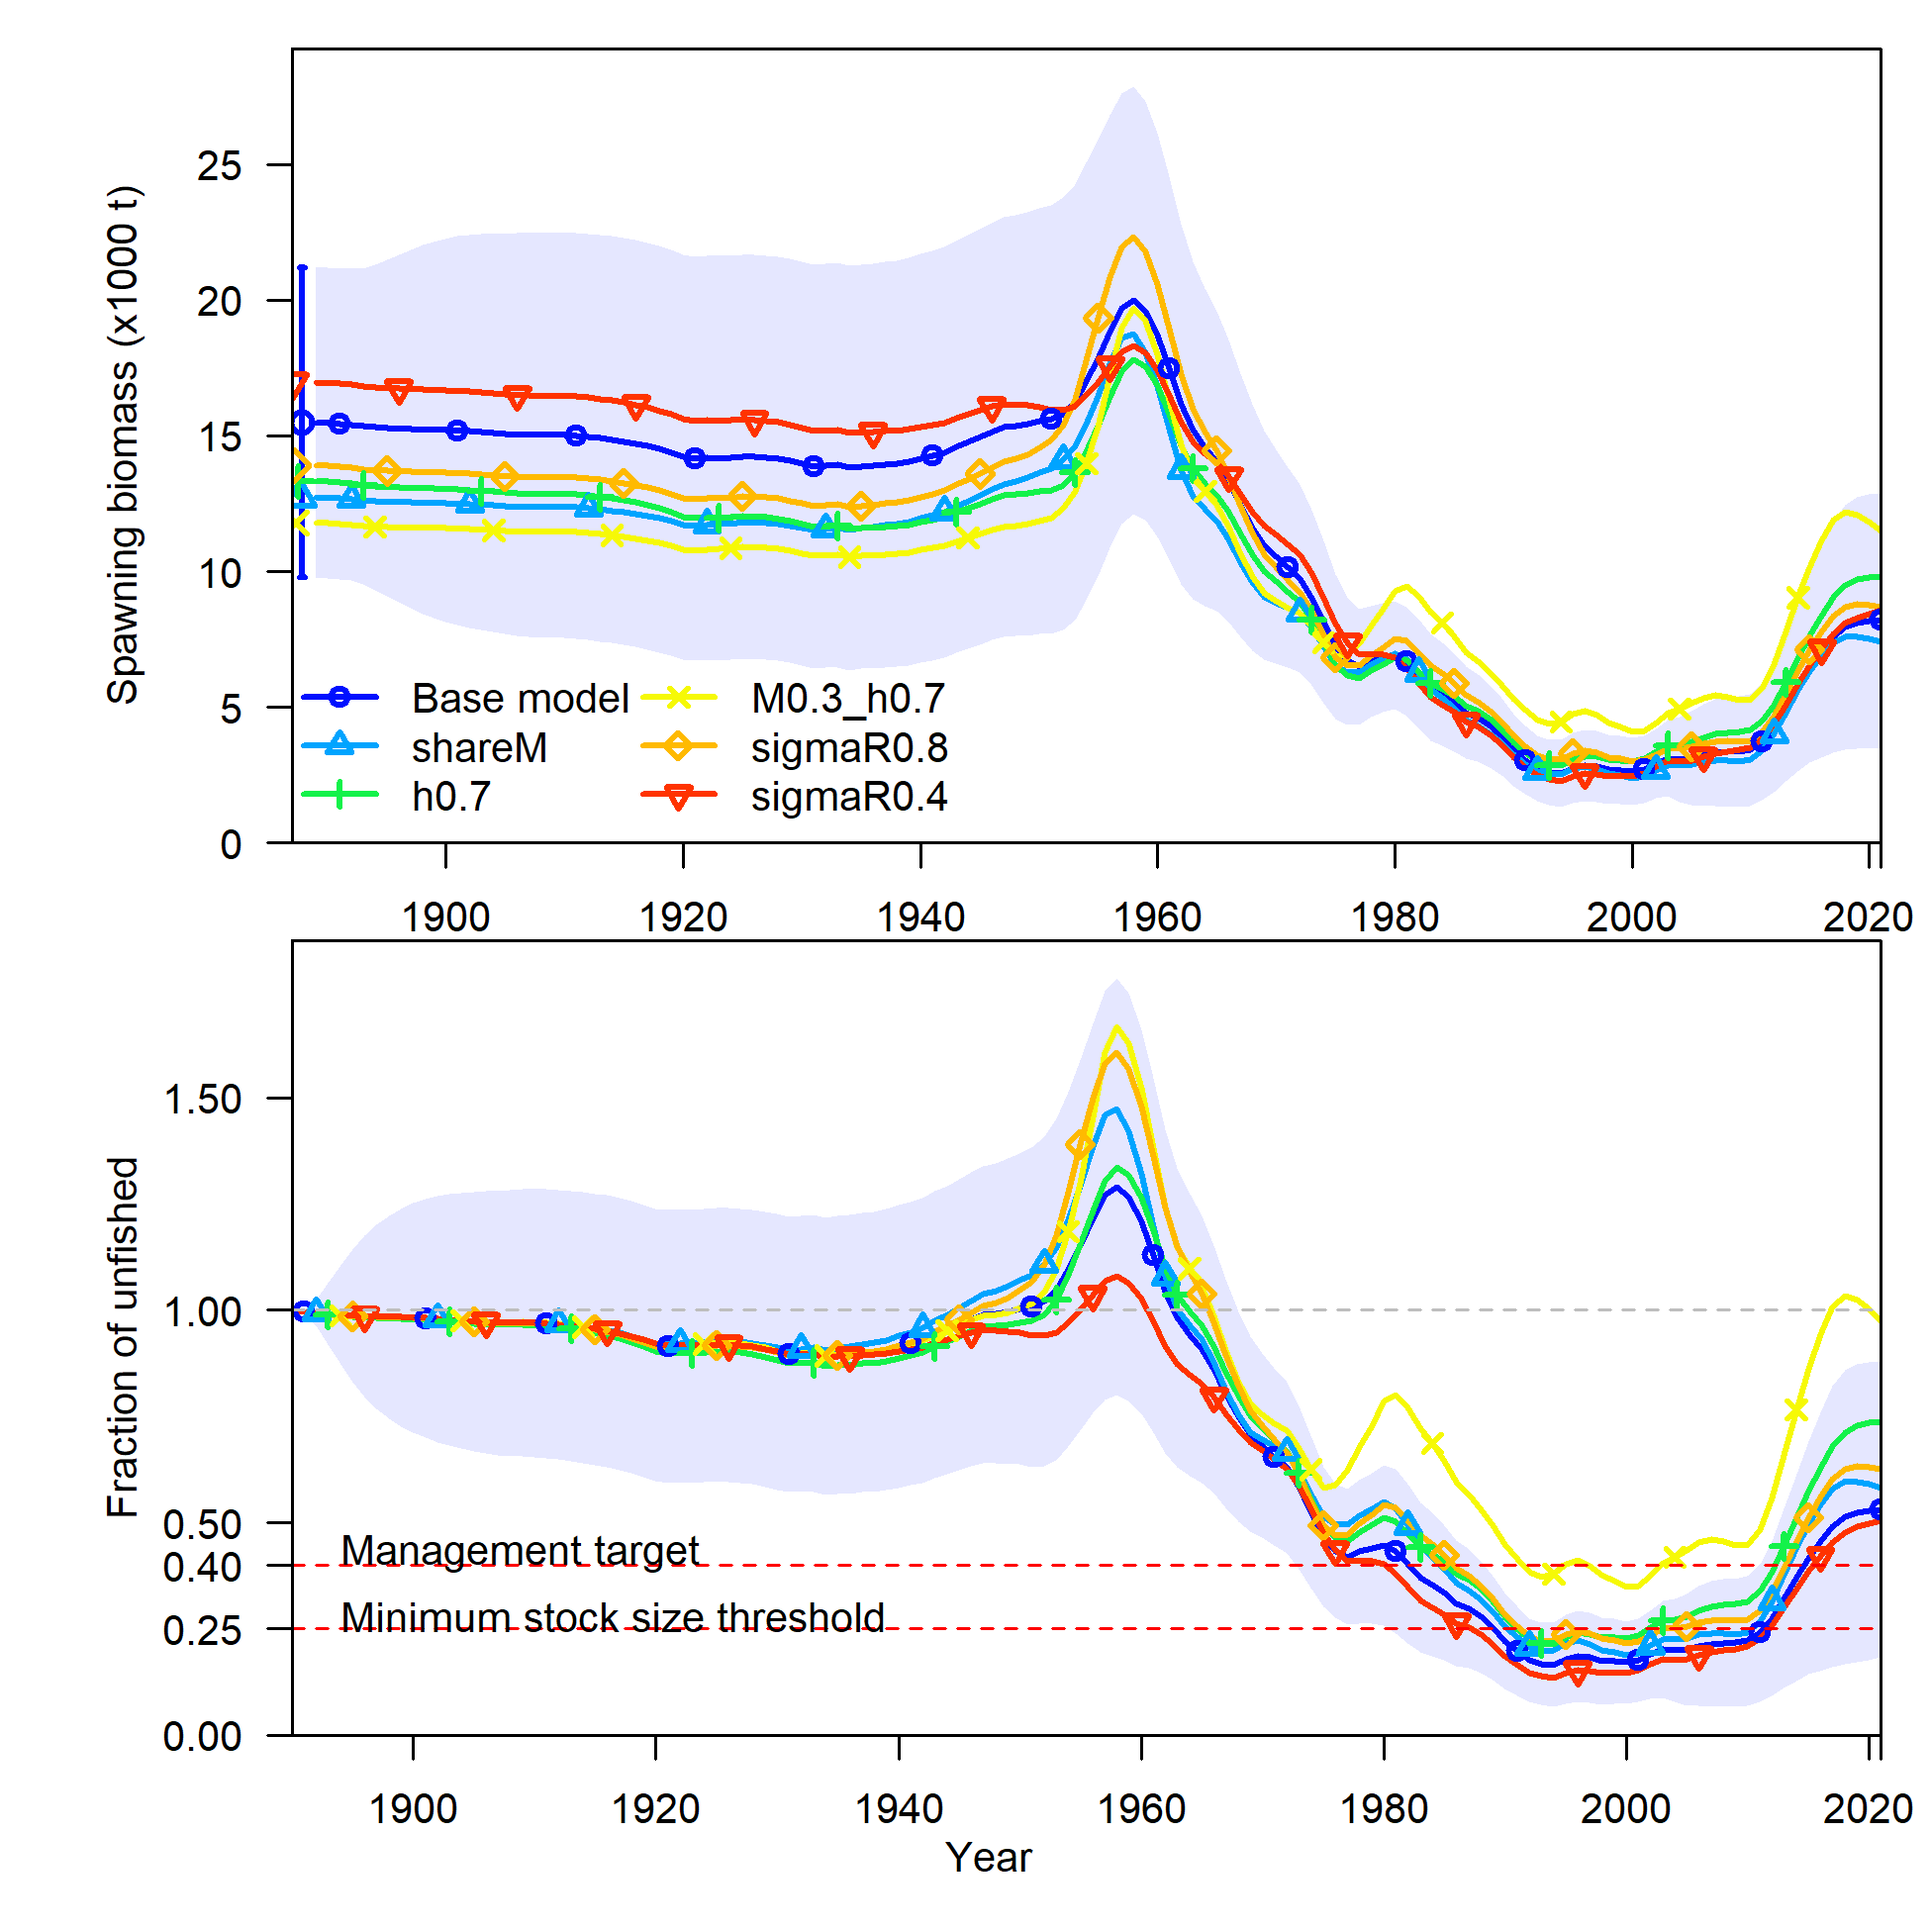
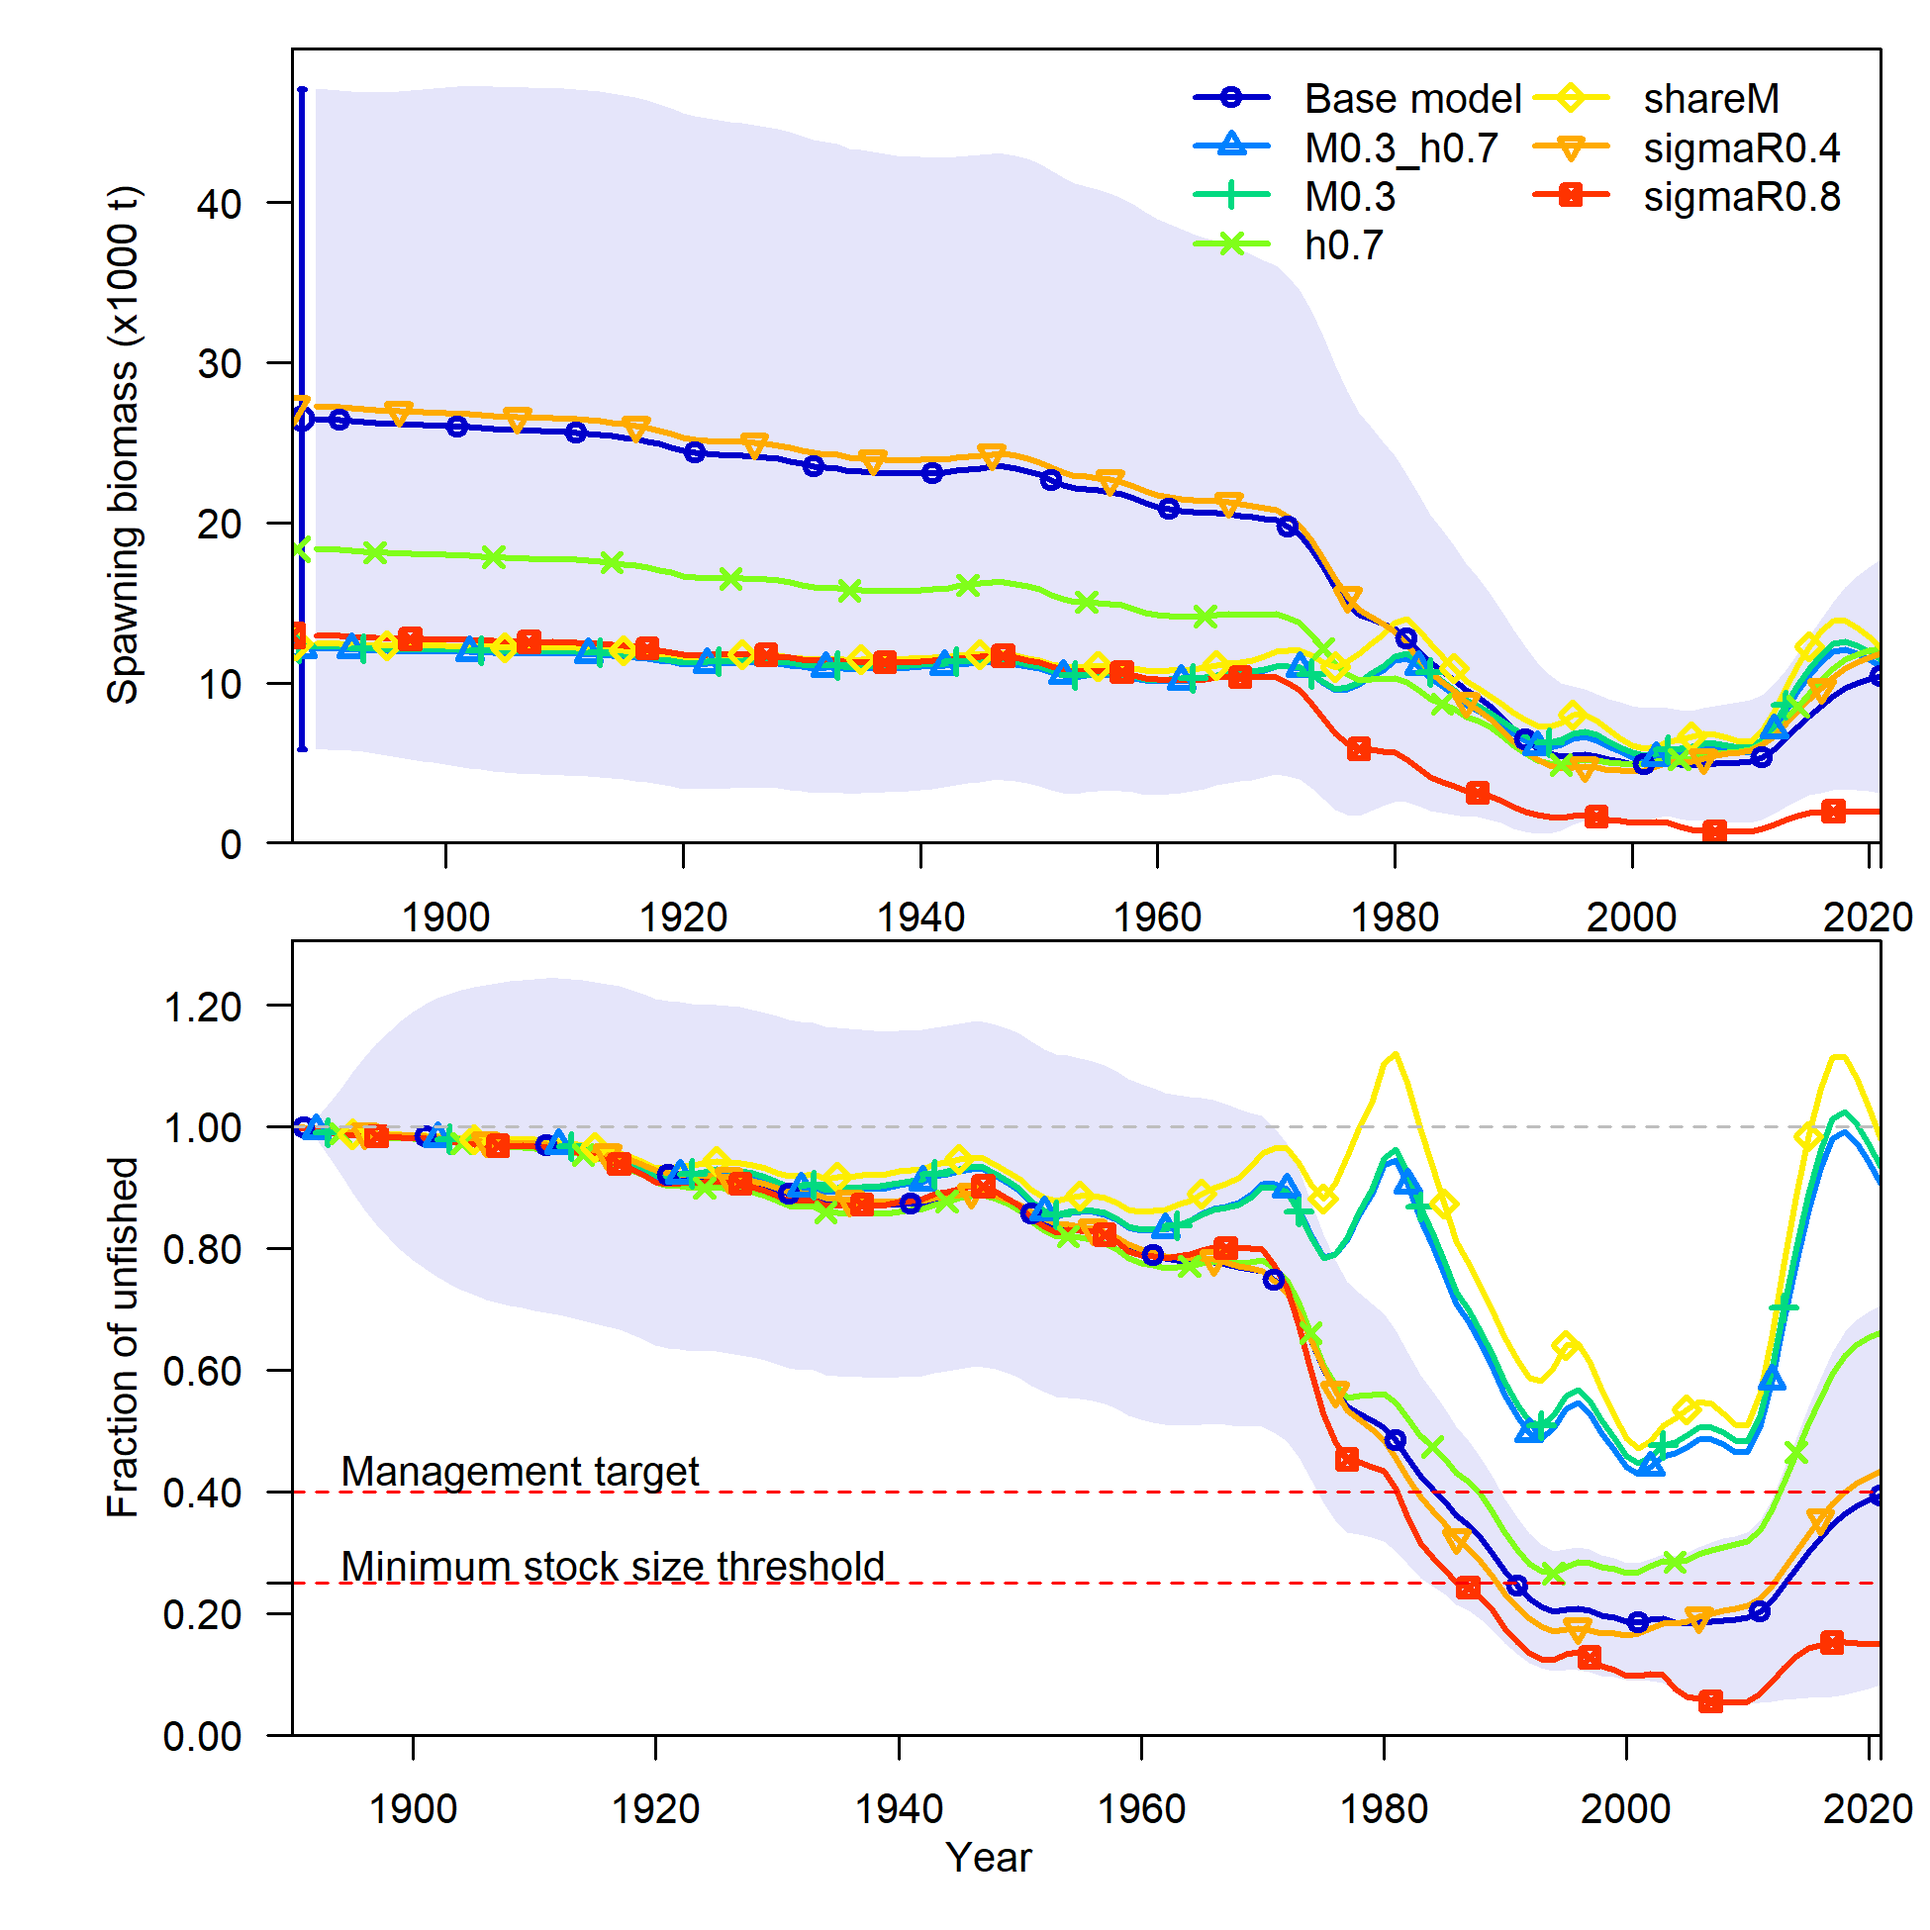
update some sensitivities for the south model

diff --git a/models/README.md b/models/README.md
@@ -242,7 +242,6 @@ name | notes | issue | source_model | script
 2021.n.023.801_lorenzenm | Lorenzen M Age 8 | #150 | 2021.n.023.001_fixWAreccatchhistory | model_STAR_request_10.R
 2021.s.017.801_lorenzenm | Lorenzen M Age 8 | #150 | 2021.s.017.001_triextrasdreweight | model_STAR_request_10.R
 2021.s.017.802_lorenzenm | Lorenzen M Age 8 free up Tri selectivity | #150 | 2021.s.017.801_lorenzenm | manual
-2021.s.017.412_female_sel_offset_fisheriesFixTriSlx | Tri Slx Offset | #150 | 2021.s.017.411_female_sel_offset_fisheries | manual
 2021.s.017.803_lorenzenm | Lorenzen M Free Tri Slx Offset | #150 | 2021.s.017.412_female_sel_offset_fisheriesFixTriSlx | model_STAR_request_10.R
 2021.n.023.802_offsetLM | female offset sensitivity | #150 #151 | 2021.n.023.411_female_sel_offset_fisheries | run_sensitivities(), model_STAR_requests.R
 2021.n.023.901_trawl_discard_rates             | actually a combinationof 902 and 904  | #155 | 2021.n.023.001_fixWAreccatchhistory | lingcod_model_STAR_R14_discard.R
@@ -250,6 +249,7 @@ name | notes | issue | source_model | script
 2021.n.023.903_trawl_rates_discard_se          | less reduced se of discard rates for fleet2 than sens 901     | #155 | 2021.n.023.001_fixWAreccatchhistory | lingcod_model_STAR_R14_discard.R
 2021.n.023.904_sample_size                     | downweight sample sizes of discard lengths for fleet1         | #155 | 2021.n.023.001_fixWAreccatchhistory | lingcod_model_STAR_R14_discard.R
 2021.s.017.810_cutnuseDM | Tune comps with smaller input | intuition | 2021.s.017.001_triextrasdreweight | lingcod_model_STAR_R9_reweight.R
+2021.s.017.412_female_sel_offset_fisheriesFixTriSlx | Tri Slx Offset | #150 | 2021.s.017.411_female_sel_offset_fisheries | manual
 2021.n.023.413_asymptotic_TW | fix the commercial trawl selectivity to be asymptotic for all blocks | #156 | 2021.n.023.001 | run_sensitivities(), model_STAR_requests.R
 2021.s.017.413_asymptotic_TW | fix the commercial trawl selectivity to be asymptotic for all blocks | #156 | 2021.s.017.001 | run_sensitivities(), model_STAR_requests.R
 2021.n.023.414_descend_shared_across_blocks | make the descending slope of the selectivity function equal for all blocks | #156 | 2021.n.023.001 | run_sensitivities(), model_STAR_requests.R
@@ -268,7 +268,6 @@ name | notes | issue | source_model | script
 2021.n.023.421_sex_sel_peak_descend_fisheries | make the peak and descending slope of the selectivity function sex-specific for fisheries only | #156 | 2021.n.023.001 | run_sensitivities(), model_STAR_requests.R
 2021.s.017.421_sex_sel_peak_descend_fisheries | make the peak and descending slope of the selectivity function sex-specific for fisheries only | #156 | 2021.s.017.001 | run_sensitivities(), model_STAR_requests.R 
 2021.s.017.422_init_values | test south model sensitivity to initial values | #156 | 2021.s.017.419 | model_STAR_requests.R 
-2021.s.017.412_female_sel_offset_fisheriesFixTriSlx | Tri Slx Offset | #150 | 2021.s.017.411_female_sel_offset_fisheries | manual
 2021.s.017.803_lorenzenm | Lorenzen M Free Tri Slx Offset | #150 | 2021.s.017.412_female_sel_offset_fisheriesFixTriSlx | manual
 2021.n.023.002_tighterM | divide sd of M in half |  | 2021.n.023.001_fixWAreccatchhistory | 
 2021.n.913_discard_trawl_rates_se_tighterM | divide sd of M in half |  | 2021.n.023.903_trawl_rates_discard_se | 
@@ -311,5 +310,48 @@ name | notes | issue | source_model | script
 2021.s.018.613_low_stream_3	 | forecasts on July 21 | #154 | 2021.s.018.010 | lingcod_forecast.R, model_decsion_tables.R
 2021.s.018.623_base_stream_3 | forecasts on July 21 | #154 | 2021.s.018.010 | lingcod_forecast.R, model_decsion_tables.R
 2021.s.018.633_high_stream_3 | forecasts on July 21 | #154 | 2021.s.018.010 | lingcod_forecast.R, model_decsion_tables.R
-2021.n.023.103_M0.3_h0.7 | | | |
-2021.s.018.103_M0.3_h0.7 | | | |
+2021.n.023.629_forecast_no4010 | like 623_base_stream_3 forecast but without 40:10 adjustment |  | 2021.n.023.623 | lingcod_forecast_extras.R
+2021.s.018.629_forecast_no4010 | like 623_base_stream_3 forecast but without 40:10 adjustment |  | 2021.s.018.623 | lingcod_forecast_extras.R
+2021.s.018.101_shareM                 | post-STAR south sensitivities | #175 | 2021.s.018.001 | model_sensitivity_output.R, run_sensitivities()  
+2021.s.018.102_h0.7					  | post-STAR south sensitivities | #175 | 2021.s.018.001 | model_sensitivity_output.R, run_sensitivities()
+2021.s.018.103_M0.3_h0.7			  | post-STAR south sensitivities | #175 | 2021.s.018.001 | model_sensitivity_output.R, run_sensitivities()
+2021.s.018.104_sigmaR0.8			  | post-STAR south sensitivities | #175 | 2021.s.018.001 | model_sensitivity_output.R, run_sensitivities()
+2021.s.018.105_sigmaR0.4			  | post-STAR south sensitivities | #175 | 2021.s.018.001 | model_sensitivity_output.R, run_sensitivities()
+2021.s.018.106_M0.3       			  | post-STAR south sensitivities | #175 | 2021.s.018.001 | model_sensitivity_output.R, run_sensitivities()
+2021.s.018.201_all_CAAL_ages		  | post-STAR south sensitivities | #175 | 2021.s.018.001 | model_sensitivity_output.R, run_sensitivities()
+2021.s.018.202_all_marg_ages		  | post-STAR south sensitivities | #175 | 2021.s.018.001 | model_sensitivity_output.R, run_sensitivities()
+2021.s.018.203_some_CAAL_ages		  | post-STAR south sensitivities | #175 | 2021.s.018.001 | model_sensitivity_output.R, run_sensitivities()
+2021.s.018.206_combMF				  | post-STAR south sensitivities | #175 | 2021.s.018.001 | model_sensitivity_output.R, run_sensitivities()
+2021.s.018.207_no_unsexed			  | post-STAR south sensitivities | #175 | 2021.s.018.001 | model_sensitivity_output.R, run_sensitivities()
+2021.s.018.208_DM					  | post-STAR south sensitivities | #175 | 2021.s.018.001 | model_sensitivity_output.R, run_sensitivities()
+2021.s.018.301_CA_CRFSPR_index		  | post-STAR south sensitivities | #175 | 2021.s.018.001 | model_sensitivity_output.R, run_sensitivities()
+2021.s.018.303_no_fishery_indices	  | post-STAR south sensitivities | #175 | 2021.s.018.001 | model_sensitivity_output.R, run_sensitivities()
+2021.s.018.311_no_Comm_Trawl_index	  | post-STAR south sensitivities | #175 | 2021.s.018.001 | model_sensitivity_output.R, run_sensitivities()
+2021.s.018.315_no_Rec_CA_index		  | post-STAR south sensitivities | #175 | 2021.s.018.001 | model_sensitivity_output.R, run_sensitivities()
+2021.s.018.316_no_Surv_TRI_index	  | post-STAR south sensitivities | #175 | 2021.s.018.001 | model_sensitivity_output.R, run_sensitivities()
+2021.s.018.317_no_Surv_WCGBTS_index	  | post-STAR south sensitivities | #175 | 2021.s.018.001 | model_sensitivity_output.R, run_sensitivities()
+2021.s.018.318_no_Surv_HookLine_index | post-STAR south sensitivities | #175 | 2021.s.018.001 | model_sensitivity_output.R, run_sensitivities()
+2021.s.018.320_no_CPFV_DebWV_index	  | post-STAR south sensitivities | #175 | 2021.s.018.001 | model_sensitivity_output.R, run_sensitivities()
+2021.s.018.321_no_fishery_indices_v2  | post-STAR south sensitivities | #175 | 2021.s.018.001 | model_sensitivity_output.R, run_sensitivities()
+2021.n.023.101_shareM                          | post-STAR north sensitivities | #175 | 2021.n.023.001 | model_sensitivity_output.R, run_sensitivities()   
+2021.n.023.102_h0.7							   | post-STAR north sensitivities | #175 | 2021.n.023.001 | model_sensitivity_output.R, run_sensitivities()
+2021.n.023.103_M0.3_h0.7					   | post-STAR north sensitivities | #175 | 2021.n.023.001 | model_sensitivity_output.R, run_sensitivities()
+2021.n.023.104_sigmaR0.8					   | post-STAR north sensitivities | #175 | 2021.n.023.001 | model_sensitivity_output.R, run_sensitivities()
+2021.n.023.105_sigmaR0.4					   | post-STAR north sensitivities | #175 | 2021.n.023.001 | model_sensitivity_output.R, run_sensitivities()
+2021.n.023.106_M0.3							   | post-STAR north sensitivities | #175 | 2021.n.023.001 | model_sensitivity_output.R, run_sensitivities()
+2021.n.023.206_combMF						   | post-STAR north sensitivities | #175 | 2021.n.023.001 | model_sensitivity_output.R, run_sensitivities()
+2021.n.023.207_no_unsexed					   | post-STAR north sensitivities | #175 | 2021.n.023.001 | model_sensitivity_output.R, run_sensitivities()
+2021.n.023.208_DM							   | post-STAR north sensitivities | #175 | 2021.n.023.001 | model_sensitivity_output.R, run_sensitivities()
+2021.n.023.209_no_fishery_ages_DM			   | post-STAR north sensitivities | #175 | 2021.n.023.001 | model_sensitivity_output.R, run_sensitivities()
+2021.n.023.225_remove_fishery_ages_before_1990 | post-STAR north sensitivities | #175 | 2021.n.023.001 | model_sensitivity_output.R, run_sensitivities()
+2021.n.023.226_remove_fishery_ages_before_2000 | post-STAR north sensitivities | #175 | 2021.n.023.001 | model_sensitivity_output.R, run_sensitivities()
+2021.n.023.302_OR_CPFV_index				   | post-STAR north sensitivities | #175 | 2021.n.023.001 | model_sensitivity_output.R, run_sensitivities()
+2021.n.023.303_no_fishery_indices			   | post-STAR north sensitivities | #175 | 2021.n.023.001 | model_sensitivity_output.R, run_sensitivities()
+2021.n.023.311_no_Comm_Trawl_index			   | post-STAR north sensitivities | #175 | 2021.n.023.001 | model_sensitivity_output.R, run_sensitivities()
+2021.n.023.312_no_Comm_Fix_index			   | post-STAR north sensitivities | #175 | 2021.n.023.001 | model_sensitivity_output.R, run_sensitivities()
+2021.n.023.313_no_Rec_WA_index				   | post-STAR north sensitivities | #175 | 2021.n.023.001 | model_sensitivity_output.R, run_sensitivities()
+2021.n.023.314_no_Rec_OR_index				   | post-STAR north sensitivities | #175 | 2021.n.023.001 | model_sensitivity_output.R, run_sensitivities()
+2021.n.023.315_no_Rec_CA_index				   | post-STAR north sensitivities | #175 | 2021.n.023.001 | model_sensitivity_output.R, run_sensitivities()
+2021.n.023.316_no_Surv_TRI_index			   | post-STAR north sensitivities | #175 | 2021.n.023.001 | model_sensitivity_output.R, run_sensitivities()
+2021.n.023.317_no_Surv_WCGBTS_index			   | post-STAR north sensitivities | #175 | 2021.n.023.001 | model_sensitivity_output.R, run_sensitivities()
+2021.n.023.321_no_fishery_indices_v2		   | post-STAR north sensitivities | #175 | 2021.n.023.001 | model_sensitivity_output.R, run_sensitivities()
